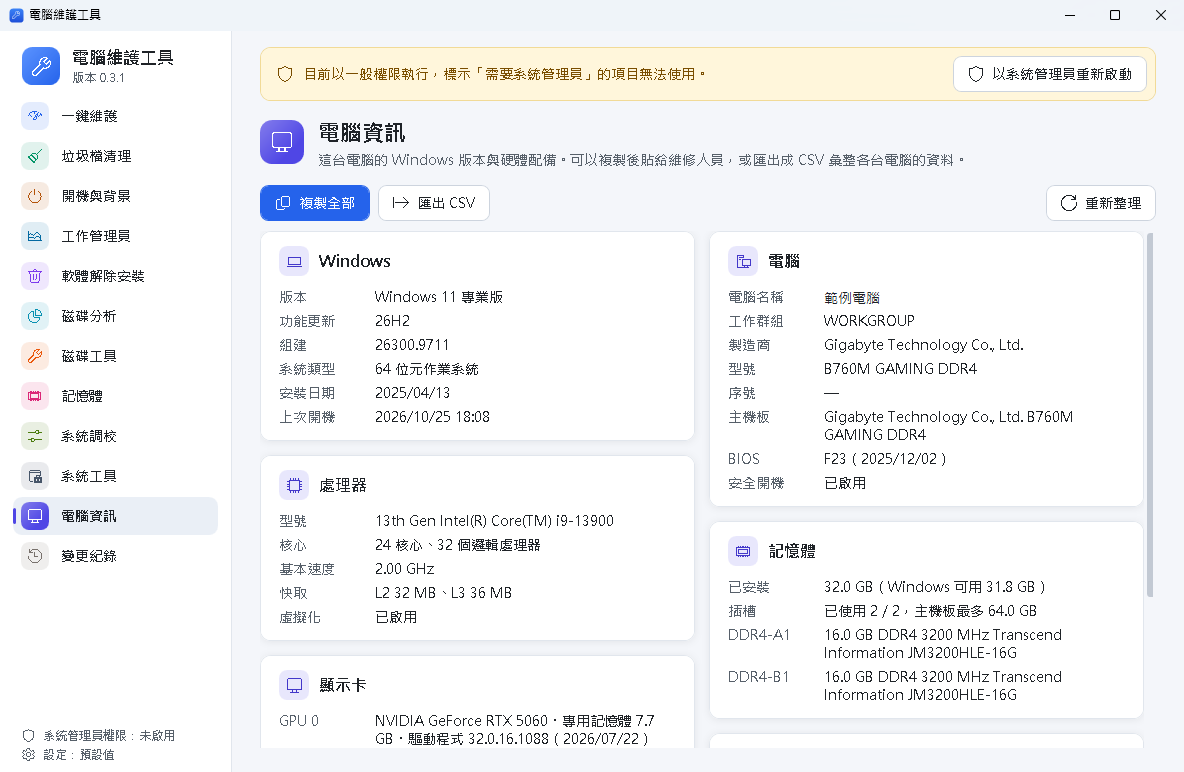
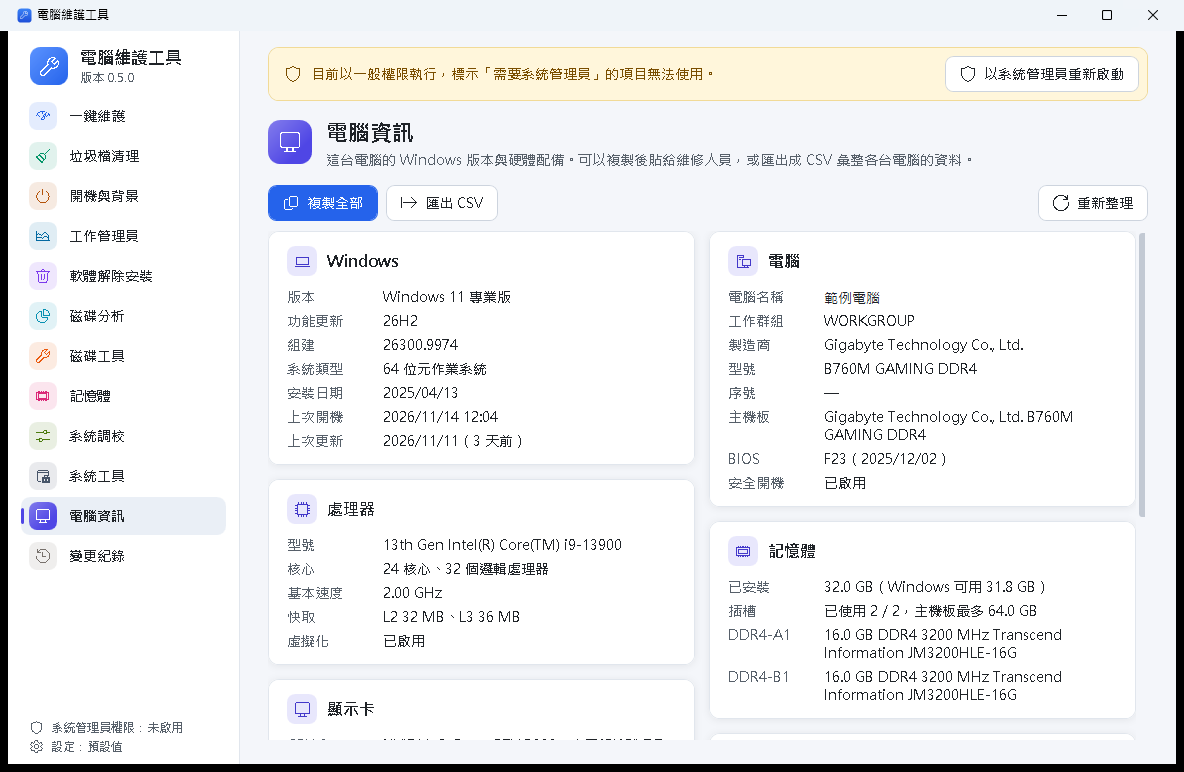
Document 0.5.0

diff --git a/docs/manual/make_manual.py b/docs/manual/make_manual.py
@@ -16,7 +16,7 @@ from docx.oxml import OxmlElement, parse_xml
 from docx.oxml.ns import nsdecls, qn
 from docx.shared import Cm, Pt, RGBColor
 
-VERSION = "0.4.0"
+VERSION = "0.5.0"
 RELEASE_MONTH = "2026 年 11 月"
 IMAGES = Path(__file__).resolve().parent / "images"
 CJK_FONT = "Microsoft JhengHei"
@@ -217,19 +217,19 @@ def introduction(doc):
     heading(doc, "1　這個工具能做什麼", 1)
     para(doc, "電腦維護工具是公司電腦用的 Windows 維護程式，取代 Glary Utilities 中常用的功能（包含一鍵維護），"
               "並整合 Windows 工作管理員的常用功能，以及 Wintoys 一類工具的系統調校與修復功能。"
-              "程式不含廣告、不收集任何使用資料，也不會自己連上網路（只有在工作管理員的網路頁按「查詢主機名稱」時，會向電腦設定的 DNS 伺服器查詢）。")
+              "程式不含廣告、不收集任何使用資料，也不會自己連上網路（只有在工作管理員的網路頁按「查詢主機名稱」或「開始診斷」時才會連線）。")
     table(doc, ["功能", "用途"], [
-        ["一鍵維護", "一次檢查暫存檔、無效捷徑、無效的解除安裝項目、使用痕跡、開機程式、磁碟、防毒與重新開機狀態，確認清單後一鍵處理"],
+        ["一鍵維護", "一次檢查暫存檔、無效捷徑、無效的解除安裝項目、使用痕跡、開機程式、磁碟、防毒、Windows 更新、有問題的裝置、系統穩定度、安全性設定與重新開機狀態，確認清單後一鍵處理"],
         ["垃圾檔清理", "清掉暫存檔、瀏覽器快取、當機傾印檔與錯誤報告等可重建的檔案；可設定定期自動清理"],
-        ["開機與背景", "停用不需要隨開機執行的程式、排程工作與服務；服務也可以立即啟動或停止"],
-        ["工作管理員", "查看執行中的程式與 CPU、記憶體、磁碟、網路、顯示卡的即時效能；結束沒有回應的程式；查看哪個程式連到哪裡、各程式用了多少網路流量，以及區域網路上的裝置"],
+        ["開機與背景", "停用不需要隨開機執行的程式、排程工作與服務；服務也可以立即啟動或停止；看開機花多久、什麼拖慢了開機"],
+        ["工作管理員", "查看執行中的程式與 CPU、記憶體、磁碟、網路、顯示卡的即時效能；結束沒有回應的程式；查看哪個程式連到哪裡、各程式用了多少網路流量、區域網路上的裝置；網路連不上時一鍵診斷原因"],
         ["軟體解除安裝", "執行程式本身的解除安裝程式，並清掉留下的資料夾與登錄機碼；也可以移除 Windows 內建與商店 App"],
         ["磁碟分析", "找出佔用空間的資料夾、檔案類型、大檔案、內容完全相同的重複檔與空資料夾"],
         ["磁碟工具", "查看磁碟健康狀態，檢查磁碟錯誤、最佳化磁碟、排定開機時修復"],
         ["記憶體", "查看記憶體用量與最占記憶體的程式，釋放記憶體、排定記憶體檢測"],
         ["系統調校", "常用的 Windows 效能、檔案總管與隱私設定開關，以及電源計畫"],
-        ["系統工具", "系統檔案檢查、修復 Windows 映像、重設 Windows 更新與網路、備份驅動程式、擷取網路封包、清除 DNS 快取等修復，以及 Windows 內建管理工具"],
-        ["電腦資訊", "Windows 版本與硬體配備，可以複製或匯出"],
+        ["系統工具", "系統檔案檢查、修復 Windows 映像、重設 Windows 更新與網路、備份驅動程式、擷取網路封包、清除 DNS 快取、清除卡住的列印工作、校正電腦時間等修復，以及 Windows 內建管理工具"],
+        ["電腦資訊", "Windows 版本與硬體配備、上次 Windows 更新、有問題的裝置、安全性設定、最近的當機紀錄、筆電電池健康度與印表機，可以複製、匯出 CSV 或電腦健檢報告"],
         ["變更紀錄", "以上做過的系統變更都會記錄，可以還原"],
     ], [3.2, 13.3])
     heading(doc, "安全原則", 2)
@@ -244,6 +244,8 @@ def introduction(doc):
         "「系統工具」中的修復則由 Windows 另外詢問權限。",
         "網路頁只讀取 Windows 現有的連線資料，不掃描區域網路；各程式流量只計算位元組數，不讀取內容；"
         "「擷取網路封包」會留下封包內容，開始前會提醒並確認。",
+        "網路診斷只在按「開始診斷」時進行，會 ping 預設閘道、查詢 DNS，並連到 Microsoft 的連線測試網址與 Windows 時間伺服器；只讀取 Proxy 與 hosts 檔，不會修改。",
+        "舊版 Windows（Windows.old）交給 Windows 自己的磁碟清理移除，程式不自己刪這些檔案；預設不勾，確認時會再提醒刪除後不能退回舊版。",
     ])
 
 
@@ -305,6 +307,15 @@ def installation(doc):
     ], [3, 13.5])
     heading(doc, "2.5　版本更新內容", 2)
     bullets(doc, [
+        "0.5.0：網路頁新增「網路診斷」：依序檢查網路卡、IP 位址（是否拿到 DHCP 位址）、預設閘道、DNS、能不能上網與電腦時間，"
+        "並列出 Wi-Fi 訊號、Proxy 與 hosts 檔，每項標示正常、注意或有問題，並說明下一步。"
+        "系統工具新增「清除卡住的列印工作」「校正電腦時間」；一鍵維護新增「Windows 更新」（多久沒更新、安裝失敗的更新）與「裝置狀態」（裝置管理員中有問題的裝置）；"
+        "電腦資訊新增上次 Windows 更新、裝置狀態、筆電電池健康度與印表機，匯出的 CSV 也多了這幾欄；"
+        "垃圾檔清理新增「傳遞最佳化快取」與「舊版 Windows（Windows.old）」。"
+        "另外新增：一鍵維護與電腦資訊的「系統穩定度」（最近 30 天的藍色畫面、不正常關機、磁碟與硬體錯誤、常當機的程式）與「安全性設定」"
+        "（防火牆、BitLocker、遠端桌面、SMBv1、使用者帳戶控制、自動登入、Guest 與系統管理員帳號，只檢查不修改）；"
+        "開機與背景顯示 Windows 記錄的開機時間與拖慢開機的項目（需要系統管理員）；電腦資訊可以匯出一頁可列印的「電腦健檢報告」，命令列新增 --export-report。"
+        "修正：命令列的資料夾路徑用引號括起來、結尾又是反斜線時（例如 \"\\\\伺服器\\共用\\\"），匯出會失敗。",
         "0.4.0：工作管理員新增「網路」分頁（功能規劃參考開源網路監看工具 Sniffnet，程式為獨立撰寫）："
         "每條連線是哪個程式開的、連到網際網路或區域網路、用途（依連接埠判斷）、哪些連接埠對外開放；"
         "可查詢主機名稱、比對公司的可疑 IP 清單、匯出 CSV；各程式的即時上傳下載速度與累計流量（需要系統管理員）；"
@@ -352,9 +363,9 @@ def features(doc):
     heading(doc, "4.1　一鍵維護", 2)
     figure(doc, "01-一鍵維護.png", "一鍵維護：掃描後列出每一項的結果，勾選的項目可以一鍵處理")
     steps(doc, [
-        "按「一鍵掃描」，等待八個項目檢查完成（通常數十秒，暫存檔越多越久；可以按「取消」中止）。",
+        "按「一鍵掃描」，等待十二個項目檢查完成（通常數十秒，暫存檔越多越久；可以按「取消」中止）。",
         "看每一項的結果：勾號表示正常；「可釋放…」「…個無效捷徑」這類結果可以一鍵處理；"
-        "開機程式、磁碟、防毒與重新開機只提供建議，右側的按鈕會帶你到處理的地方。",
+        "開機程式、磁碟、防毒、Windows 更新、裝置狀態、系統穩定度、安全性設定與重新開機只提供建議，右側的按鈕會帶你到處理的地方。",
         "確認要處理的項目已勾選（「使用痕跡」預設不勾）；需要時勾選「處理前先建立系統還原點」。",
         "按「一鍵修復」，確認清單後按「確定」。完成後每一項顯示處理結果，上方會記錄這次處理的項數與釋放的空間。",
     ])
@@ -370,6 +381,10 @@ def features(doc):
         ["開機啟動程式", "8 個以上非 Microsoft 的程式隨開機啟動", "建議：前往「開機與背景」"],
         ["磁碟空間與健康", "磁碟回報健康警告，或剩餘空間不到 10%", "建議：前往「磁碟工具」"],
         ["防毒保護", "防毒軟體沒有開啟即時保護，或病毒碼不是最新", "建議：開啟 Windows 安全性"],
+        ["Windows 更新", "已經 40 天以上沒有安裝 Windows 更新（不含防毒定義檔、驅動程式與商店 App），或最近 30 天有更新安裝失敗、之後也沒裝成功", "建議：開啟 Windows Update"],
+        ["裝置狀態", "裝置管理員中有問題的裝置，例如沒有驅動程式、無法啟動（手動停用的裝置不算）", "建議：開啟裝置管理員"],
+        ["系統穩定度", "最近 30 天有藍色畫面、不正常關機（斷電、當機、強制關機）、磁碟錯誤或無法更正的硬體錯誤；常當機的程式另外列出", "建議：開啟可靠性監視器"],
+        ["安全性設定", "防火牆關閉、使用者帳戶控制關閉或不詢問、自動登入（密碼存在登錄中）、遠端桌面沒有網路層級驗證、SMBv1 開啟、Guest 啟用、筆電磁碟沒有加密", "建議：前往電腦資訊查看各項說明"],
         ["重新開機", "Windows 更新等待重新開機，或已連續開機 14 天以上", "建議：開啟 Windows Update"],
     ], [3.4, 8.3, 4.8])
     bullets(doc, [
@@ -391,6 +406,9 @@ def features(doc):
     bullets(doc, [
         "縮圖快取：清掉後檔案總管會重新產生相片與影片的縮圖，第一次開資料夾可能稍慢。",
         "最近使用的項目：只刪「最近開啟的檔案」與跳躍清單紀錄，不會刪除檔案本身；清除後這些清單會是空的。",
+        "傳遞最佳化快取（需要系統管理員）：Windows 更新與商店 App 下載後留著分享給其他電腦的檔案，刪除後需要時會重新下載；同樣只刪放超過 24 小時的檔案。",
+        "舊版 Windows（需要系統管理員，只在有 C:\\Windows.old 的電腦出現，預設不勾）：Windows 大版本更新後保留的舊系統，常佔 20 GB 以上。"
+        "勾選後會交給 Windows 自己的「磁碟清理」移除，畫面會出現磁碟清理的小視窗，可能要幾分鐘。移除後就不能再退回更新前的 Windows 版本，確認時會再提醒一次。",
     ])
 
     heading(doc, "4.3　開機與背景", 2)
@@ -405,6 +423,8 @@ def features(doc):
         "Microsoft 的項目預設隱藏；勾選「顯示 Microsoft 項目」才會列出，但 Microsoft 的服務不提供變更。",
         "停用與啟動類型的變更都會寫入「變更紀錄」，可以還原；立即啟動或停止只維持到下次開機。",
         "「匯出清單」會把所有項目（含 Microsoft 項目）存成 CSV，可用 Excel 開啟。",
+        "以系統管理員執行時，搜尋框右邊會顯示 Windows 自己記錄的開機時間：上次開機到桌面與到完全就緒各花多久、最近 10 次的平均，"
+        "以及拖慢開機最多的程式、驅動程式或服務（滑鼠移到這行字上可以看到完整清單）。一般權限時這行字會說明要以系統管理員執行。",
     ])
 
     heading(doc, "4.4　工作管理員", 2)
@@ -452,6 +472,19 @@ def features(doc):
               "（例如 203.0.113.7、198.51.100.0/24），# 之後是註解。設定後網路頁多一個「可疑連線」篩選，"
               "連到清單內位址的連線以紅底標示，選取時下方顯示警告；匯出的 CSV 也有「可疑 IP」欄。程式不會自動下載或更新這份清單。",
          title="可疑 IP 清單（資訊人員）")
+    para(doc, "網路診斷：網路連不上時切到「網路診斷」，按「開始診斷」。程式會依序檢查下列項目，每一項標示「正常」「注意」「有問題」或「略過」，"
+              "有問題的項目下方會寫建議怎麼處理；請從第一個有問題的項目開始處理。")
+    figure(doc, "19-工作管理員-網路診斷.png", "工作管理員：網路診斷（圖中電腦時間慢了 10 分鐘，建議用「校正電腦時間」對時）")
+    table(doc, ["項目", "檢查內容"], [
+        ["網路卡", "有沒有已連線的網路卡（有線或 Wi-Fi）；Wi-Fi 另外顯示訊號強度，低於 40% 時提醒"],
+        ["IP 位址", "有沒有取得 IP 位址；169.254 開頭表示沒有從 DHCP 伺服器拿到位址（常見於路由器或網路線問題）"],
+        ["預設閘道", "路由器有沒有回應；有些路由器不回應 ping，這時只要能上網就不算問題"],
+        ["DNS", "能不能查到網址；查不到時其他網站也都打不開"],
+        ["連上網際網路", "能不能連到 Microsoft 的連線測試網址（Windows 判斷「沒有網際網路」也是用它）；需要先在網頁登入的訪客網路會另外說明"],
+        ["電腦時間", "和 time.windows.com 相差多少；超過 1 分鐘提醒，超過 5 分鐘時網域登入與加密網站可能失敗"],
+        ["Proxy、hosts 檔", "目前的 Proxy 設定；hosts 檔有沒有把網址導到固定位址（把 Windows 更新或防毒網站導走時特別提醒）"],
+    ], [3.2, 13.3])
+    note(doc, "公司網路擋住 Microsoft 的連線測試網址或時間伺服器（UDP 123）時，「連上網際網路」或「電腦時間」會顯示有問題或略過，不一定是這台電腦的問題，請以資訊人員的判斷為準。")
 
     heading(doc, "4.5　軟體解除安裝", 2)
     figure(doc, "06-軟體解除安裝.png", "軟體解除安裝（圖中以「Microsoft」搜尋）")
@@ -531,7 +564,7 @@ def features(doc):
     figure(doc, "14-系統工具.png", "系統工具：修復、快速處理、還原點與 Windows 內建工具")
     table(doc, ["分類", "項目"], [
         ["修復（需要系統管理員）", "系統檔案檢查（SFC）、修復 Windows 映像（DISM）、清理 Windows 更新元件、重設 Windows 更新、重設網路連線（Winsock）、備份驅動程式、擷取網路封包"],
-        ["快速處理", "清除 DNS 快取、重建圖示與縮圖快取、重新啟動檔案總管、重新啟動顯示卡驅動程式、重設 Microsoft Store"],
+        ["快速處理", "清除 DNS 快取、重建圖示與縮圖快取、重新啟動檔案總管、重新啟動顯示卡驅動程式、重設 Microsoft Store、清除卡住的列印工作（需要系統管理員）、校正電腦時間（需要系統管理員）"],
         ["還原點", "建立還原點、系統還原、系統保護設定"],
         ["Windows 內建工具", "裝置管理員、服務、工作排程器、事件檢視器、資源監視器、可靠性監視器、磁碟管理、Windows 防火牆等捷徑；這台電腦沒有的工具不會顯示"],
     ], [4.4, 12.1])
@@ -544,14 +577,30 @@ def features(doc):
         "「擷取網路封包」是網路問題要交給資訊人員或廠商分析時使用：確認後開啟命令視窗，以 Windows 內建的封包監視器擷取所有網路卡的封包，"
         "最多 5 分鐘（在命令視窗按任意鍵可以提早結束），存到「文件\\網路封包擷取」的 .pcapng 檔並在檔案總管選取，可以用 Wireshark 開啟。"
         "擷取檔包含這段時間所有進出這台電腦的網路內容，請只交給需要分析的人員，用完刪除。需要 Windows 10 2004 以上，較舊的版本不會顯示這一項。",
+        "「清除卡住的列印工作」：印表機一直顯示正在列印、後面的文件都印不出來時使用。會停止列印服務、刪除所有等待中的列印工作，再重新啟動列印服務；需要的文件要再印一次。",
+        "「校正電腦時間」：立即和時間伺服器對時（加入網域的電腦是和網域控制站對時），命令視窗最後會顯示對時的來源與時間。網路診斷發現時間不準時會建議使用這一項。",
     ])
 
     heading(doc, "4.11　電腦資訊", 2)
     figure(doc, "15-電腦資訊.png", "電腦資訊：Windows 版本與硬體配備")
     bullets(doc, [
         "包含 Windows 版本與組建、電腦型號與序號、主機板與 BIOS、處理器、記憶體模組、顯示卡、磁碟與網路卡。",
+        "「上次更新」是最後一次安裝 Windows 更新的日期（不含防毒定義檔、驅動程式與商店 App），最近有更新安裝失敗時另外列出。",
+        "「裝置狀態」列出裝置管理員中有問題的裝置、原因與建議；手動停用的裝置另外標示「已停用」。",
+        "筆電另有「電池」：健康度是現在充飽的容量占新電池容量的比例，低於 60% 時建議更換；有些機型要以系統管理員執行才讀得到容量。",
+        "「印表機」列出已安裝的印表機、預設印表機、離線狀態與等待中的列印工作數。",
+        "「安全性」逐項列出防火牆、磁碟加密（BitLocker，要以系統管理員執行才讀得到）、遠端桌面、舊版檔案分享（SMBv1）、使用者帳戶控制、自動登入、"
+        "Guest 帳號與系統管理員帳號；需要調整的項目後面會寫建議在哪裡改。程式只檢查，不會自動修改這些設定。",
+        "「穩定度（最近 30 天）」列出藍色畫面、不正常關機（斷電、當機或按住電源鍵強制關機）、磁碟錯誤、硬體錯誤與常當機的程式。"
+        "硬體自動更正的錯誤只計次數，多半不影響使用。",
+        "「匯出健檢報告」產生一頁可以列印的網頁，最上面是需要注意的事項，下面是配備、磁碟、更新與防毒、安全性、穩定度、開機時間、裝置與印表機；"
+        "存好後會用瀏覽器開啟，可以直接列印或另存成 PDF。報告含電腦名稱、序號與網路位址，請只交給負責維護的人員。",
+    ])
+    figure(doc, "20-電腦健檢報告.png", "電腦健檢報告的開頭（在 Windows 沙箱中產生的範例：使用者帳戶控制關閉、自動登入存有密碼等）", width=13)
+    bullets(doc, [
+        "命令列也可以匯出健檢報告（見第 5 章），派送工具可以定期收集到共用資料夾。",
         "「複製全部」可以貼到訊息或文件中交給維修人員。",
-        "「匯出 CSV」一台電腦一列；把多台電腦的檔案合併，就是一張配備總表。",
+        "「匯出 CSV」一台電腦一列，也包含上次 Windows 更新、有問題的裝置、電池健康度、印表機、安全性建議與最近 30 天的問題；把多台電腦的檔案合併，就是一張配備與狀態總表。",
     ])
 
     heading(doc, "4.12　變更紀錄", 2)
@@ -575,6 +624,7 @@ def command_line(doc):
         ["--export-startup <檔案或資料夾>", "匯出開機與背景項目 CSV"],
         ["--export-system <檔案或資料夾>", "匯出電腦配備與系統版本 CSV（一台一列）"],
         ["--export-connections <檔案或資料夾>", "匯出目前的網路連線 CSV（程式、位址、狀態、用途、範圍、可疑 IP；不查詢主機名稱）"],
+        ["--export-report <檔案或資料夾>", "匯出電腦健檢報告（可列印的網頁）；以系統管理員執行時多了磁碟加密與開機時間"],
         ["--restore-point", "建立系統還原點（需要以系統管理員執行）"],
     ], [5.5, 11])
     para(doc, "給資料夾時，檔名會自動帶電腦名稱與日期。結束代碼：0 成功（含未到時間而略過）、1 執行失敗、2 參數錯誤；"
@@ -601,8 +651,8 @@ def faq(doc):
         ("系統調校的開關切換後想改回來？", "再切一次開關即可；或到「變更紀錄」選取那一筆，按「還原選取的變更」，會恢復成切換前的設定。"),
         ("按「清除 DNS 快取」時 Windows 詢問權限？", "較新的 Windows 只允許系統管理員清除 DNS 快取，按「是」即可；按「否」則不會清除。"),
         ("解除安裝後還看得到這個程式？", "有些解除安裝程式會在背景繼續執行，完成後按「重新檢查」。"),
-        ("這個工具會連上網路或回傳資料嗎？", "不會回傳任何資料，也不收集使用資料。程式唯一會用到網路的是工作管理員網路頁的「查詢主機名稱」："
-                                    "按下時才向電腦設定的 DNS 伺服器查詢畫面上的位址。"
+        ("這個工具會連上網路或回傳資料嗎？", "不會回傳任何資料，也不收集使用資料。程式只有兩個地方會用到網路，而且都要按下才會進行：網路頁的「查詢主機名稱」（向電腦設定的 DNS 伺服器查詢畫面上的位址），"
+                                    "以及「網路診斷」（ping 預設閘道、查詢 DNS，並連到 Microsoft 的連線測試網址與時間伺服器）。"
                                     "（「修復 Windows 映像」是由 Windows 自己連到 Windows Update 下載修復檔；"
                                     "精簡版安裝檔在電腦沒有 .NET 10 時，安裝過程會從 Microsoft 下載執行環境。）"),
         ("精簡版安裝時顯示「無法從 Microsoft 下載 .NET 10 桌面執行環境」？", "這台電腦連不到 Microsoft 的下載站（builds.dotnet.microsoft.com）。"
@@ -611,6 +661,12 @@ def faq(doc):
                                     "Windows 詢問權限時按「是」。連線與區域網路裝置不需要系統管理員。"),
         ("網路連線裡有不認識的程式或位址？", "先看「程式」欄與「服務」欄，再按「查詢主機名稱」看連到哪個網域；多數是 Windows 更新、防毒與瀏覽器的正常連線。"
                                   "仍有疑慮時，用「匯出清單」或系統工具的「擷取網路封包」把資料交給資訊人員分析。"),
+        ("電腦常常當機、自己重新開機？", "看「電腦資訊」的「穩定度」：藍色畫面多半是驅動程式或硬體問題，不正常關機可能是電源、過熱或被強制關機，"
+                                    "磁碟錯誤要盡快備份資料。用「匯出健檢報告」把結果交給資訊人員或維修廠商。"),
+        ("網路連不上怎麼辦？", "到「工作管理員」→「網路」→「網路診斷」按「開始診斷」，從第一個「有問題」的項目照建議處理；"
+                            "處理不了時把畫面截圖交給資訊人員，診斷結果也會寫進當天的記錄檔。"),
+        ("網域登入失敗、網站一直出現憑證錯誤？", "常見原因是電腦時間不準。用「網路診斷」看「電腦時間」差多少，再到「系統工具」按「校正電腦時間」。"),
+        ("印表機卡住，文件都印不出來？", "到「系統工具」按「清除卡住的列印工作」，Windows 詢問權限時按「是」；完成後重新列印需要的文件。仍然不行時檢查印表機本身的電源、紙張與網路。"),
         ("磁碟檢查發現問題怎麼辦？", "先備份重要資料，再按「排定開機時修復」並重新開機。健康狀態顯示警告或不良時，請安排更換磁碟。"),
         ("圖示的動畫可以關掉嗎？", "可以。本工具跟隨 Windows 的動畫設定：Windows 11 在「設定 → 協助工具 → 視覺效果」關閉「動畫效果」；"
                               "Windows 10 在「設定 → 輕鬆存取 → 顯示」關閉「在 Windows 中顯示動畫」。關閉後圖示與換頁不再播放動畫，進度條仍會移動以表示正在處理。"),
@@ -624,7 +680,7 @@ def faq(doc):
 
 def appendix(doc):
     heading(doc, "附錄 A　清理項目代碼", 1)
-    para(doc, "公司設定檔的 disabledJunkCategories 使用下列代碼。瀏覽器快取只在電腦有安裝該瀏覽器時出現。")
+    para(doc, "公司設定檔的 disabledJunkCategories 使用下列代碼。瀏覽器快取只在電腦有安裝該瀏覽器時出現；不想讓使用者移除舊版 Windows 時，可以停用 windows-old。")
     table(doc, ["代碼", "名稱", "預設勾選", "需要系統管理員"], [
         ["user-temp", "使用者暫存檔", "是", "否"],
         ["windows-temp", "Windows 暫存檔", "是", "是"],
@@ -639,6 +695,8 @@ def appendix(doc):
         ["user-error-reports", "錯誤報告（使用者）", "是", "否"],
         ["system-error-reports", "錯誤報告（系統）", "是", "是"],
         ["windows-update-cache", "Windows 更新下載快取", "是", "是"],
+        ["delivery-optimization", "傳遞最佳化快取", "是", "是"],
+        ["windows-old", "舊版 Windows（只在有 Windows.old 的電腦出現）", "否", "是"],
         ["recycle-bin", "資源回收筒", "否", "否"],
     ], [4.6, 5.4, 2.6, 3.9])
     para(doc, "「一鍵維護」的暫存檔與快取使用上表預設勾選、不需要系統管理員的項目（以系統管理員執行時也包含需要權限的項目），不含資源回收筒；"
